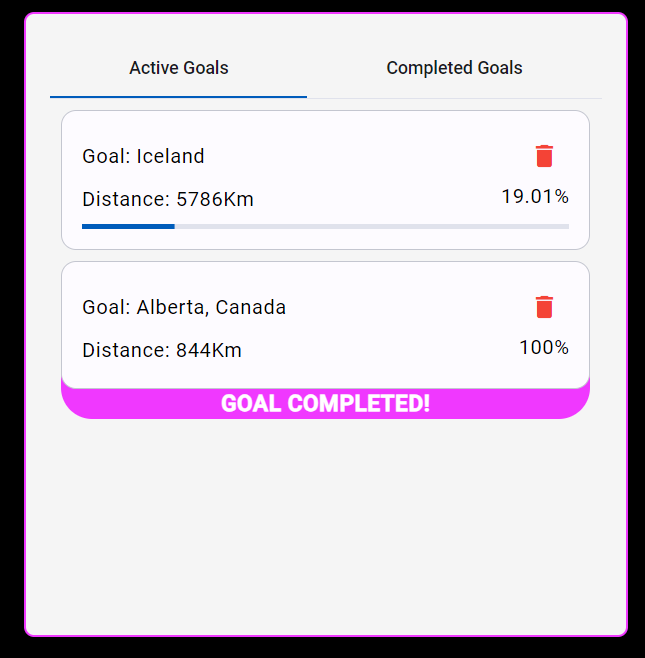
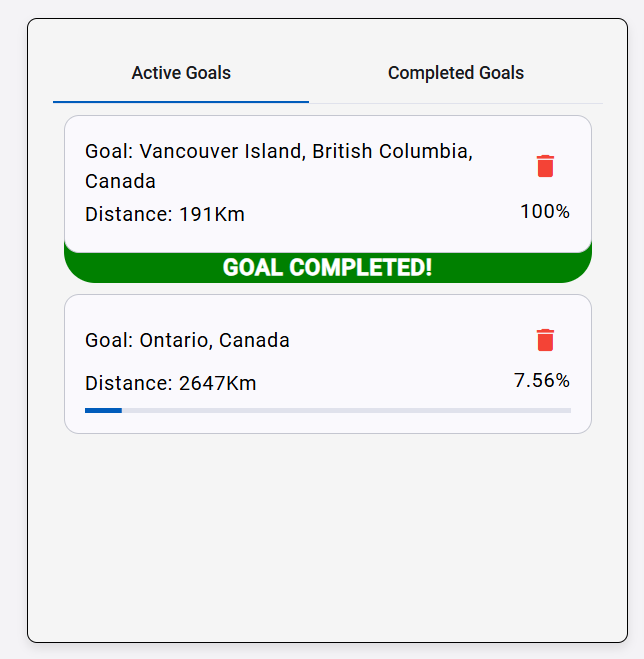
Updated readme images to match current app styling

diff --git a/src/app/app.component.less b/src/app/app.component.less
@@ -14,7 +14,7 @@
     position: relative;
     overflow: hidden;
   }
-  
+
   // Sidebar stylings
   .sidebar {
     display: flex;
@@ -22,19 +22,19 @@
     justify-content: space-evenly;
     box-sizing: border-box;
     border: 2px solid black;
-    width: 25%; 
+    width: 25%;
     height: 100%;
     padding: 2%;
     background-color: white;
-    position: absolute; 
+    position: absolute;
     left: 0;
-    z-index: 1; 
+    z-index: 1;
     transition: width 0.3s ease;
     border-top-left-radius: 5px;
     border-bottom-left-radius: 5px;
     // background-color: black;
   }
-  
+
   .user-info-component {
     padding:2%;
     margin-bottom: 25%;
@@ -47,29 +47,29 @@
   .input-wrapper {
     position: relative;
     display: inline-block;
-    width: 100%; 
-    max-width: 300px; 
+    width: 100%;
+    max-width: 300px;
     border: 1px solid black;
   }
-  
+
   input[type="number"] {
     width: 100%;
-    padding-right: 80px; 
-    border: 1px solid #ccc; 
-    border-radius: 4px; 
-    box-sizing: border-box; 
+    padding-right: 80px;
+    border: 1px solid #ccc;
+    border-radius: 4px;
+    box-sizing: border-box;
   }
-  
+
   span.log-unit {
     position: absolute;
-    right: 10px; 
+    right: 10px;
     top: 50%;
-    transform: translateY(-50%); 
-    color: gray; 
-    font-size: medium; 
-    pointer-events: none; 
+    transform: translateY(-50%);
+    color: gray;
+    font-size: medium;
+    pointer-events: none;
   }
-  
+
   .settings-button {
     align-self: flex-start;
     margin-top: auto;
@@ -83,7 +83,7 @@
     background-color: white;
   }
 
-  // Content box with Active Goals + Add a Goal stylings  
+  // Content box with Active Goals + Add a Goal stylings
   .main-content {
     display:flex;
     margin-left: 25%;
@@ -96,20 +96,20 @@
     border-top-right-radius: 5px;
     border-bottom-right-radius: 5px;
   }
-  
+
   .component {
     border-radius: 5px;
   }
 
   // Active/Completed goals component stylings
   .goals-tabs {
-    background-color: #f5f5f5; 
+    background-color: #f5f5f5;
     max-height: 100%;
-    width: 45%; 
-    border-radius: 8px; 
+    width: 45%;
+    border-radius: 8px;
     margin-right: 2%;
-    overflow-y: auto; 
-    overflow: hidden; 
+    overflow-y: auto;
+    overflow: hidden;
     transition: max-width 0.3s ease-in-out;
     border: 1px solid black;
     box-shadow: 0px 4px 8px rgba(0, 0, 0, 0.1);
@@ -118,41 +118,42 @@
 
   .goal-div {
     margin: 2%;
+    background-color: green;
     border-radius: 25px;
    }
-   
-   .goal-info { 
+
+   .goal-info {
      display: flex;
      color: black;
-     justify-content: space-between; 
-     align-items: center; 
+     justify-content: space-between;
+     align-items: center;
    }
-   
+
    mat-progress-bar {
      margin-top: 5px;
    }
- 
+
    .delete-button {
      color: #f44336;
      transition: transform 0.2s ease-in-out;
    }
- 
+
    .delete-button:hover {
      color: #d32f2f;
-     transform: scale(1.1); 
+     transform: scale(1.1);
    }
- 
+
    .delete-button:focus {
-     outline: none; 
+     outline: none;
    }
-   
+
    .completed {
      text-align: center;
      font-size: large;
      font-weight: bold;
      cursor: pointer;
    }
-  
+
   .no-goals {
     font-size: 1.2em;
     color: gray;
@@ -162,16 +163,16 @@
 
   // Add Goal component stylings
   .right-content-align {
-    display: flex; 
+    display: flex;
     flex-direction: column;
     justify-content: space-between;
     width: 45%;
   }
-  
+
   .add-goal-component {
     height: 100%;
     width: 100%;
-    border-radius: 8px; 
+    border-radius: 8px;
     display: flex;
     flex-direction: column;
     border: 1px solid black;
@@ -184,11 +185,10 @@
     margin: 2% 0%;
     border: 1px solid black;
   }
-  
+
   .hover:hover {
     cursor: pointer;
-    // color: #F038FF;
-    transition: all 0.2s ease-in-out;   
+    transition: all 0.2s ease-in-out;
   }
 
   .add-goal-container {
@@ -197,14 +197,13 @@
   }
 
   .location-search-button {
-    // background-color: #F038FF;
     color: black;
     border-radius: 5px;
     cursor: pointer;
     transition: background-color 0.3s ease;
     margin: 1% 0%;
   }
-  
+
   .add-goal-search-button {
     border-radius: 5px;
   }
@@ -227,8 +226,8 @@
 
   app-address-card:hover {
     // color: black;
-    box-shadow: 0 6px 12px rgba(0, 0, 0, 0.2); 
-    transform: translateY(-4px); 
+    box-shadow: 0 6px 12px rgba(0, 0, 0, 0.2);
+    transform: translateY(-4px);
   }
 
   .align-right {
@@ -251,7 +250,7 @@
     margin: auto;
     padding: 2%;
   }
-  
+
   .form-container {
     display: flex;
     flex-direction: column;
@@ -262,12 +261,12 @@
     display: flex;
     flex-direction: column;
   }
-  
+
   .input-label {
     font-weight: bold;
     font-size: 1rem;
   }
-  
+
   input {
     padding: 10px;
     font-size: 1rem;
@@ -297,14 +296,14 @@
     color: white;
     cursor: not-allowed;
   }
-  
+
   .scroll-container {
     background-color:  white;
     max-height: 400px;
-    overflow-y: auto; 
+    overflow-y: auto;
     padding: 10px;
     border-radius: 5px;
-    box-shadow: 0 2px 8px rgba(0, 0, 0, 0.1); 
+    box-shadow: 0 2px 8px rgba(0, 0, 0, 0.1);
   }
 
   .no-results-found {

diff --git a/src/app/addressCard/addressCard.component.less b/src/app/addressCard/addressCard.component.less
@@ -6,16 +6,15 @@ mat-card {
 }
 
 mat-card:hover{
-    border: 2px solid #f038ff;
-    color:#f038ff;
+    border: 2px solid black;
 }
 
 .highlight {
     background-color: black; 
-    color: #f038ff;
+    color: white;
     border-radius: 5px;
     transition: all 0.4s ease-in-out; 
-    border: 2px solid #f038ff;
+    border: 2px solid black;
 }
 
 .highlight:hover {
